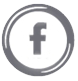
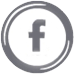
commit

diff --git a/Lesson05/css/preston-large.css b/Lesson05/css/preston-large.css
@@ -122,9 +122,10 @@ nav {
     }
 
     .footer1 {
-        max-height: 280px;
+        max-height: 300px;
         margin-left: 140px;
         margin-right: 140px;
+        margin-bottom: 2px;
         display: grid;
         grid-template-columns: 1fr 1fr;
     }
@@ -161,10 +162,13 @@ nav {
         grid-column: 2;
         grid-row: 4;
         padding-bottom: 10px;
+        padding-left: 35px;
          }
 
     .social {
         width: 50px;
+        padding-right: 20px;
+        padding-top: 10px;
 
     }
 
@@ -202,7 +206,7 @@ nav {
     } 
       
 footer {
-    padding-top: 0;
+    padding-top: 1px;
     padding-bottom: 15px;
     padding-left: 190px;
     padding-right: 190px;
